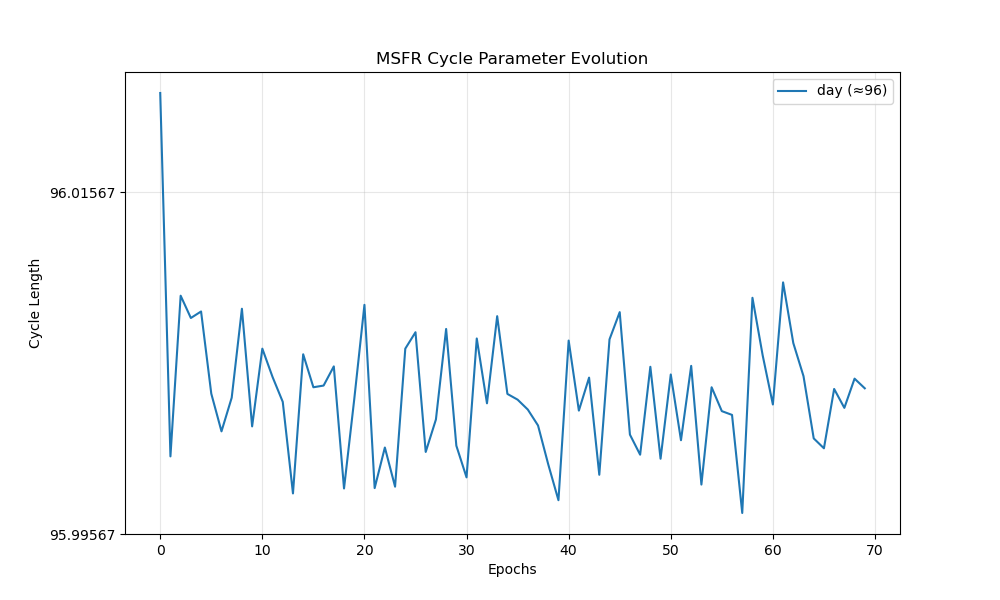
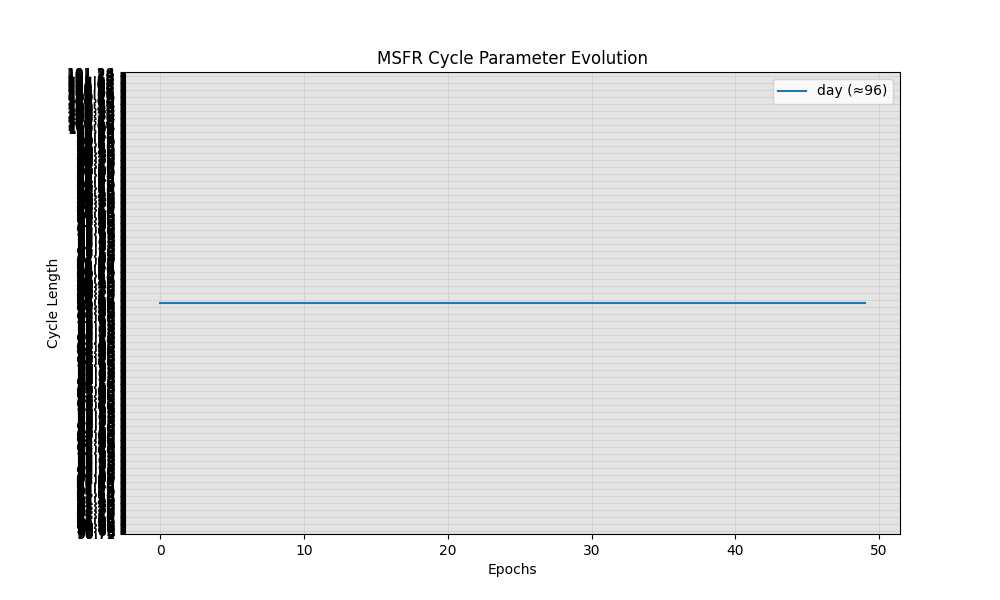
Changes to be committed: 주기 활성화 함수 수정, 테스트 수행 	modified:   benchmark/test/train_msfr.py 	modified:   ckpts/msfr_fixed.ckpt 	modified:   msfr/core.py 	modified:   msfr_bias_evolution.png 	modified:   msfr_cycle_evolution.png 	modified:   msfr_train_mse.png 	modified:   msfr_val_mse.png

diff --git a/benchmark/test/train_msfr.py b/benchmark/test/train_msfr.py
@@ -105,7 +105,7 @@ def main():
     train_loader = DataLoader(TensorDataset(X_tr, y_tr), batch_size = 512, shuffle = True)
     val_loader = DataLoader(TensorDataset(X_val, y_val), batch_size = 1024, shuffle = False)
 
-    optimizer = torch.optim.Adam(model.parameters(), lr=2e-2)
+    optimizer = torch.optim.Adam(model.parameters(), lr=5e-2)
     scheduler = LambdaLR(optimizer, lr_lambda=lr_lambda) # lr 스케줄러
     # loss_fn = nn.HuberLoss() # 휴버 고민해봐야함 (개인적인 경험으로 mse, mae보다 낮다고 봄) -> 써봤는데 mse가 나음
     loss_fn = nn.MSELoss()
@@ -123,7 +123,7 @@ def main():
     # 에폭 50, lr 스케쥴러 off, adam 2e-2 조합의 성능 비교 결과 0.01의 차이도 없이 똑같음
     # 지금 상황에선 에폭 50, lr 스케쥴러 off, adam 2e-2 조합이 좋은거 같음
     # 아래 코드는 에폭 70, lr 스케쥴러 on, adam 2e-2 조합
-    epochs = 10
+    epochs = 50
     for epoch in range(1, epochs + 1):
         model.train()
         total_loss = 0.0

diff --git a/msfr/core.py b/msfr/core.py
@@ -36,7 +36,8 @@ class MSFR(nn.Module):
 
     def forward(self, input: torch.Tensor) -> torch.Tensor:
         harmonics = torch.arange(1, self.n_harmonics + 1, device=input.device).float()  # (n_harmonics,)
-        cycles = torch.exp(self.cycle * 0.5) + 1e-3 # 주기 양수화 (exp로 민감하게 반응)
+        # cycles = torch.exp(self.cycle * 0.5) + 1e-3 # 주기 양수화 (exp로 민감하게 반응)
+        cycles = F.softplus(self.cycle) + 1e-3
 
         # 브로드캐스팅을 위해 차원 정렬
         x = input.unsqueeze(-1)                # (batch_size, input_dim, 1)
